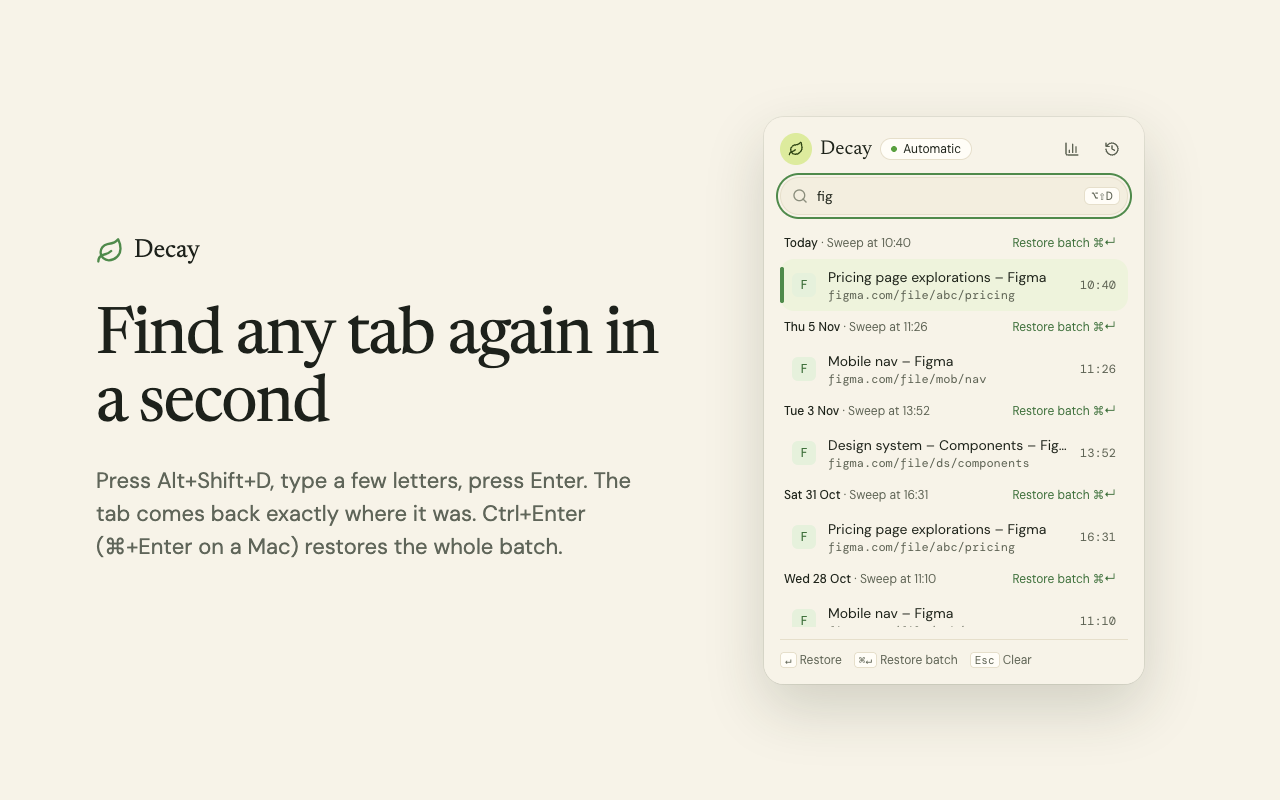
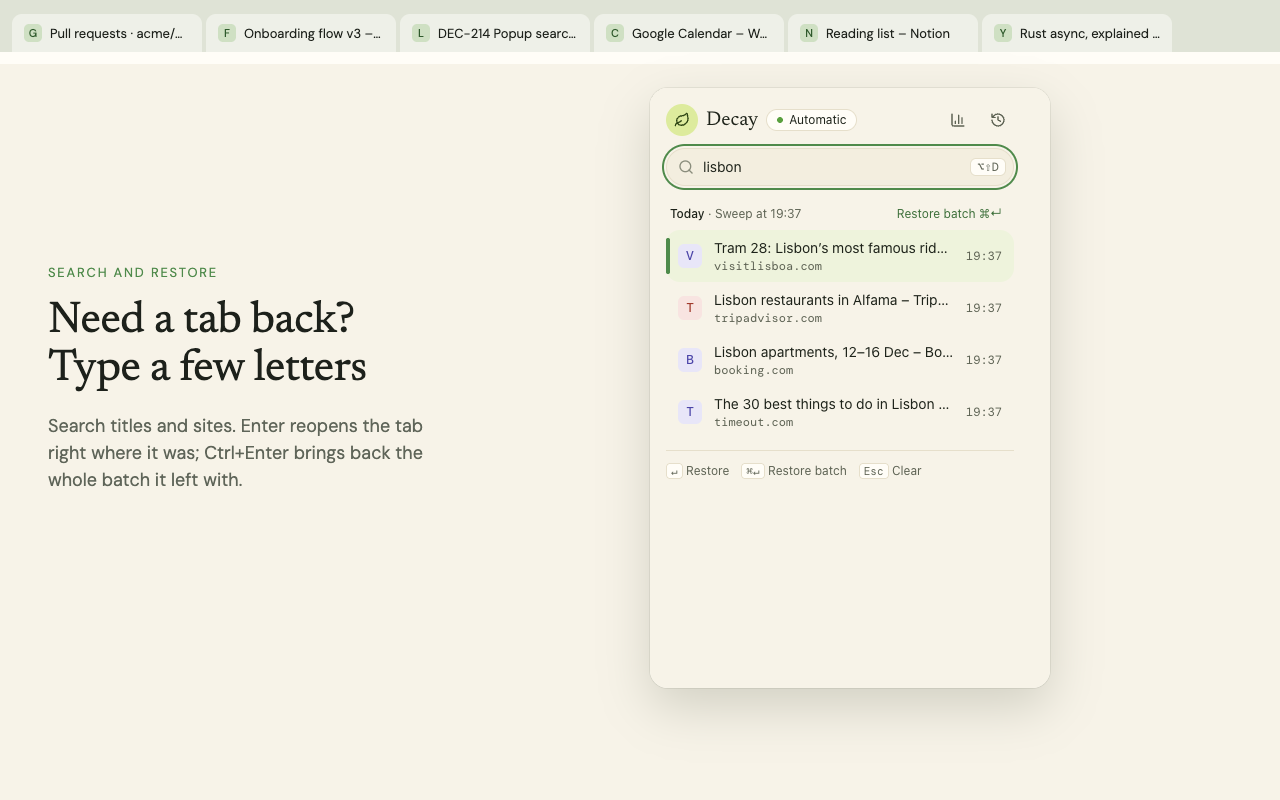
Chrome Web Store: public listing, fresh screenshots and promo tiles
Store Listing.md now covers the public listing: description, category,
URLs, privacy practices (single purpose, a justification for every
permission in the 0.1.0 manifest, remote code, data use), distribution,
reviewer instructions, what to do with the item ID, and review tips.

New 1280x800 screenshots of the current extension (search, popup, sweeps,
shadow review, insights) with sample data, a 440x280 small tile, a
1400x560 marquee and the 128 px icon, made by Docs/Store/demo/
screenshots.mjs and promo.mjs so they can be redone after UI changes.

diff --git a/Docs/Store/Store Listing.md b/Docs/Store/Store Listing.md
@@ -1,8 +1,29 @@
-# Chrome Web Store listing — Decay (beta, unlisted)
+# Chrome Web Store listing — Decay (public)
 
-Everything to paste into the Chrome Web Store Developer Dashboard for P0.9. Visibility: **Unlisted** (only people with the link can install).
+Everything to enter in the Chrome Web Store Developer Dashboard (https://chrome.google.com/webstore/devconsole), tab by tab, for the **public** listing. Updated 25 Nov 2026 for extension 0.1.0 as built from the current code (the desktop app link, the Insights page, translated strings). Edge Add-ons takes the same package and text (its own dashboard: https://partner.microsoft.com/dashboard/microsoftedge).
 
-Package: `pnpm --filter @decay/extension zip` → `apps/extension/.output/decayextension-<version>-chrome.zip` (538 KB for 0.1.0; no source maps, no remote code).
+## What to upload
+
+| What | File | Notes |
+| --- | --- | --- |
+| Package | `apps/extension/.output/decayextension-0.1.0-chrome.zip` | `pnpm --filter @decay/extension zip`. 569 KB, no source maps, no remote code. If a 0.1.0 was ever uploaded to this item before (the unlisted beta), bump `version` in `apps/extension/package.json` first: the store refuses a version it has seen. |
+| Store icon | `Docs/Store/assets/store-icon-128.png` | 128×128 |
+| Screenshots, in this order | `Docs/Store/assets/screenshot-1-search.png` … `screenshot-5-insights.png` | 1280×800, the real extension with sample data (`Docs/Store/demo/screenshots.mjs`) |
+| Small promo tile (required) | `Docs/Store/assets/promo-small-440x280.png` | 440×280 |
+| Marquee promo tile (optional) | `Docs/Store/assets/promo-marquee-1400x560.png` | 1400×560; only used if the store features Decay |
+| Promo video (optional) | — | `assets/decay-demo.mp4` shows the 7 Nov UI; leave the field empty, or re-record (`Docs/Store/demo/README.md`) and upload to YouTube first |
+
+Regenerate the images after UI changes:
+
+```sh
+pnpm --filter @decay/extension build
+rm -rf /tmp/decay-shots-ext && cp -R apps/extension/.output/chrome-mv3 /tmp/decay-shots-ext
+cp Docs/Store/demo/stage.* /tmp/decay-shots-ext/
+node Docs/Store/demo/screenshots.mjs /tmp/decay-shots-ext Docs/Store/assets
+node Docs/Store/demo/promo.mjs /tmp/decay-shots-ext Docs/Store/assets
+```
+
+(Playwright: `Docs/Store/demo/README.md`. The scripts need nothing else; the sample pages are served locally.)
 
 ---
 
@@ -10,15 +31,11 @@ Package: `pnpm --filter @decay/extension zip` → `apps/extension/.output/decaye
 
 **Name** (from the manifest): `Decay`
 
-**Summary** (manifest `description`, ≤ 132 chars):
+**Summary** (from the manifest, ≤ 132 characters):
 
 > Your tabs, gently put away. Archives stale tabs; search and restore anything.
 
-**Category:** Productivity → Tools (or "Workflow & Planning").
-
-**Language:** English.
-
-**Detailed description:**
+**Description:**
 
 ```
 Decay retires the tabs you've stopped using, and brings any of them back in a second.
@@ -28,38 +45,41 @@ People keep 30, 50, 100 tabs open because closing one feels like losing it. Deca
 HOW IT WORKS
 • Ages tabs by active browsing time, not the clock. A weekend away doesn't make Monday's tabs "old".
 • Starts in shadow mode: for the first 7 active days nothing is closed. Decay shows you what it would have archived, so you can check its judgement first.
-• Then, in automatic mode, stale tabs are archived in small, quiet sweeps, with an Undo button after each one.
+• Then, in automatic mode, stale tabs are archived in small, quiet sweeps, with Undo after each one.
 • Never touches pinned tabs, tabs playing audio, or sites you've marked "Never archive".
 • With your permission, checks a page for unsaved typing, an upload in progress or a "leave site?" prompt before archiving it. Pages it can't check get twice as long.
 
 SEARCH AND RESTORE
 • Alt+Shift+D opens the search popup. Type a few letters of a title or site, press Enter, and the tab is back.
-• Ctrl/Cmd+Enter restores the whole batch a tab was archived with, in its original order.
-• The Sweeps page lists your recent sweeps (the last 20 can be undone), with Restore selected.
+• Ctrl+Enter (⌘+Enter on a Mac) restores the whole batch a tab was archived with, in its original order and tab groups.
+• The Sweeps page lists every sweep; the last 20 can be undone.
+
+INSIGHTS
+• See your open tabs fall over time, how often you needed an archived tab back, and how fast search found it. Counted on your computer.
+
+WORKS WITH THE DECAY DESKTOP APP (OPTIONAL)
+The free Decay app for macOS and Windows does the same for your app windows, across Chrome, Edge, Brave, Arc and Firefox. Install it and click "Connect" in the popup: the extension and the app talk directly on your computer, never over the network. The extension works fully on its own without it. https://decay.aryangarg.com
 
 PRIVATE BY DESIGN
-• Everything stays on your device. No account, no server, no analytics, no network requests.
-• The Insights page shows how your tab count and "regret rate" (tabs you reopened within a day) change over time.
-• Beta testers can save an anonymised metrics file (counts only, no addresses, titles or sites) and send it themselves. You see the whole file before it's saved.
+• Everything stays on your computer. No account, no server, no analytics, no ads.
+• The extension makes no network requests of its own.
+• Open source: https://github.com/code08-ind/decay
 
-This is a beta. Decay is in a 3–4 week test with a small group of testers. Feedback: gargaryan82000@gmail.com
-Privacy policy: https://www.aryangarg.com/decay/privacy-policy
+Questions or bugs: support.decay@aryangarg.com
 ```
 
-**Graphic assets** (`Docs/Store/assets/`):
+**Category:** Productivity → **Workflow & Planning** (or Tools).
 
-| Asset | Size | File |
-| --- | --- | --- |
-| Store icon | 128×128 PNG | `apps/extension/public/icon/128.png` |
-| Screenshots (1–5, in this order) | 1280×800 PNG | `screenshot-1-search.png`, `screenshot-2-popup.png`, `screenshot-3-sweeps.png`, `screenshot-4-insights.png`, `screenshot-5-review.png` (real UI with sample data) |
-| Small promo tile | 440×280 PNG | `promo-small-440x280.png` |
-| Demo video (48 s) | MP4, 1280×712 | `decay-demo.mp4`. Upload to YouTube as **Unlisted** and paste the link into the listing's "Video" field and the reviewer instructions below |
+**Language:** English.
 
 **Additional fields:**
-- Official URL: none (or https://www.aryangarg.com once a Decay page exists)
-- Homepage URL: https://www.aryangarg.com/decay/privacy-policy (until a landing page exists)
-- Support URL / email: gargaryan82000@gmail.com
-- Mature content: No
+
+| Field | Value |
+| --- | --- |
+| Official URL | `https://decay.aryangarg.com` if the domain shows in the list (it must be verified in Google Search Console with the same Google account; `aryangarg.com` already has a Search Console TXT record). Otherwise "None". |
+| Homepage URL | `https://decay.aryangarg.com` |
+| Support URL | `https://decay.aryangarg.com/docs/browsers` |
+| Mature content | No |
 
 ---
 
@@ -67,50 +87,81 @@ Privacy policy: https://www.aryangarg.com/decay/privacy-policy
 
 **Single purpose description:**
 
-> Decay archives browser tabs that have gone unused for a while, and lets the user search and restore them. All of its features (aging, archiving, the unsaved-work check, search, restore, undo, and on-device usage statistics) serve that one purpose.
+> Decay archives browser tabs that have gone unused for a while, and lets the user search and restore them. All of its features (aging tabs by active browsing time, archiving, the optional unsaved-work check, search, restore, undo, on-device statistics, and the optional link to the Decay desktop app on the same computer) serve that one purpose.
 
-**Permission justifications:**
+**Permission justifications** (one box each):
 
 | Permission | Justification |
 | --- | --- |
 | `tabs` | Decay reads each open tab's URL, title and activity to measure how long it has gone unused, closes stale tabs after saving them to the on-device archive, and reopens them on restore. |
-| `tabGroups` | Archived tabs remember their tab group (name and colour) so a restore puts them back in the same group. |
-| `storage` | Stores the tab archive, the user's rules and settings, and daily usage counts locally (IndexedDB / chrome.storage). Nothing is synced or sent anywhere. |
+| `tabGroups` | Archived tabs remember their tab group (name and colour), so a restore puts them back in the same group. |
+| `storage` | Stores the tab archive, the user's rules and settings, and daily usage counts locally (IndexedDB and chrome.storage). Nothing is synced or sent anywhere. |
 | `alarms` | Runs the aging clock every 30 seconds in the MV3 service worker, which can't keep timers alive on its own. |
 | `idle` | Counts only time when the user is actively at the computer, so tabs don't "age" overnight or while the user is away. |
 | `scripting` | Only with the optional site access below: registers two small content scripts (watchers for typing, "leave site?" prompts and uploads in progress) and, just before archiving a stale tab, runs a one-off check in that tab that returns yes / no / unknown. |
 | `favicon` | Shows site icons in the popup and pages from Chrome's local favicon cache, so Decay never downloads icons. |
 | `notifications` | Shows "Archived N tabs" with Undo / View buttons after a sweep, and an "Always keep <site> open?" suggestion when a tab is restored soon after being archived. |
-| `nativeMessaging` (**optional**, from the version with the desktop app link) | Requested only when the user clicks "Connect" to link the Decay desktop app. It lets the extension exchange tab information and its archive with that app on the same computer, through the native messaging host the app installs. Nothing is sent over the network. |
-| Host permissions (`http://*/*`, `https://*/*`, **optional**) | Requested at runtime only when the user clicks "Allow checks", and can be limited to specific sites. Used solely to check pages for unsaved form input, `beforeunload` handlers or a file upload in progress before archiving. Typed text and upload contents are never read into storage; only a yes / no / unknown verdict with the tab's address and check time is kept in session storage, until the tab closes or the browser quits (re-checked after 10–30 minutes). |
+| `nativeMessaging` (optional) | Requested only when the user clicks "Connect" to link the Decay desktop app installed on the same computer. The extension then exchanges tab information and its archive with that app through the native messaging host the app installs. Nothing is sent over the network. |
+| Host permissions (`http://*/*`, `https://*/*`, optional) | Requested at runtime only when the user clicks "Allow checks", and can be limited to specific sites. Used solely to check pages for unsaved form input, a "leave site?" handler or a file upload in progress before archiving. Typed text and upload contents are never read into storage; only a yes / no / unknown answer with the tab's address and check time is kept in session storage, until the tab closes or the browser quits (re-checked after 10–30 minutes). |
 
-**Remote code:** No, I am not using remote code. (All JavaScript ships in the package; no `eval`, no remotely loaded scripts.)
+**Are you using remote code?** No, I am not using remote code. (All JavaScript ships in the package; no `eval`, no remotely hosted scripts, no WebAssembly from the network.)
 
-**Data usage** — what to tick:
-- Tick **Web history** (tab URLs and titles) and **User activity** (when tabs were used). Decay only keeps this on the device, but the conservative answer is to declare what it handles; the privacy policy explains that nothing leaves the device. Consider also ticking **Website content** (page titles and whether a form holds typing).
-- Certify all three:
-  - ☑ I do not sell or transfer user data to third parties, outside of the approved use cases
-  - ☑ I do not use or transfer user data for purposes that are unrelated to my item's single purpose
-  - ☑ I do not use or transfer user data to determine creditworthiness or for lending purposes
+**Data usage — what user data do you collect or use?**
 
-**Privacy policy URL:** https://www.aryangarg.com/decay/privacy-policy
+Decay keeps tab URLs, titles and usage times on the user's device and never transmits them to a server. The conservative answer is to declare what it handles, and the privacy policy explains that it stays on the device. Tick:
+
+- ☑ **Web history** (URLs and titles of tabs)
+- ☑ **User activity** (when tabs were used)
+- ☐ everything else (personally identifiable information, health, financial, authentication, personal communications, location, website content: Decay never reads page content)
+
+Then certify all three:
+
+- ☑ I do not sell or transfer user data to third parties, outside of the approved use cases
+- ☑ I do not use or transfer user data for purposes that are unrelated to my item's single purpose
+- ☑ I do not use or transfer user data to determine creditworthiness or for lending purposes
+
+**Privacy policy URL:** `https://www.aryangarg.com/decay/privacy-policy`
 
 ---
 
 ## Distribution tab
 
-- Visibility: **Unlisted**
-- Regions: all
-- Pricing: free
+- Payments: **Free of charge** (the extension has no paid features; the optional desktop app's Pro tier is sold on the website, not in the extension)
+- Visibility: **Public**
+- Distribution: **All regions**
 
-## Test instructions (for the reviewer)
+---
+
+## Test instructions tab (for the reviewer)
+
+**Username / password:** none (leave empty).
+
+**Additional instructions:**
 
 ```
-No account or login is needed.
-1. Install and open a few tabs. Decay starts in shadow mode, which closes nothing.
-2. Press Alt+Shift+D (or click the toolbar icon) to open the popup.
-3. To skip the 7-day shadow period: in the popup click "Review what Decay would do" → "Turn on automatic mode early" → "Turn on".
-4. Open the Sweeps page (the clock icon labelled "Sweep history" in the popup header). "Sweep now" archives tabs that are already stale. Note: tabs become stale only after 60 hours of active browsing without being used (120 hours for pages Decay can't check), so on a fresh install Sweep now archives nothing. This 48-second video shows the full flow in the real extension (Sweep now archives three tabs, search + Enter restores one, Ctrl+Enter restores the rest): <YouTube link>
-5. Search for an archived tab in the popup and press Enter to restore it.
-Optional site access ("Allow checks") is only used to check pages for unsaved typing, uploads and "leave site?" prompts before archiving.
+No account or login is needed. The extension works on its own; the "Connect" button in the popup is for an optional desktop app and can be ignored.
+
+1. Install it and open a few tabs. Decay starts in shadow mode, which closes nothing.
+2. Click the toolbar icon (or press Alt+Shift+D) to open the popup.
+3. To skip the 7-day shadow period: open "Shadow review" (from the popup), click "Turn on automatic mode early", then confirm.
+4. Tabs become stale only after 60 hours of active browsing without being used (120 hours for pages Decay isn't allowed to check), so on a fresh install "Sweep now" on the Sweeps page has nothing to archive yet. The screenshots show the flow with aged tabs: a sweep archives the stale tabs, the popup search finds an archived tab, Enter restores it, Undo reopens the whole sweep.
+5. Optional site access ("Allow checks") is used only to check pages for unsaved typing, uploads and "leave site?" prompts before archiving; typed text is never stored.
+
+No remote code, no network requests of its own. Privacy policy: https://www.aryangarg.com/decay/privacy-policy. Source: https://github.com/code08-ind/decay (apps/extension).
 ```
+
+---
+
+## After the first upload
+
+1. The dashboard shows the item's **ID** (32 letters) as soon as the package is uploaded, before review. Send it to Claude / put it in `crates/decay-host/src/config.rs` → `BUILTIN_EXTENSION_IDS`, so the released desktop app accepts the store build, and release the app (v0.1.1). Do the same for the Edge Add-ons ID if Edge is listed.
+2. After approval: replace the store search link in `apps/desktop/src-tauri/src/onboarding.rs` (`STORE_URL`) and the website's docs with the listing URL (`https://chromewebstore.google.com/detail/<id>`).
+3. Each new version: bump `apps/extension/package.json`, rebuild the zip, **Package → Upload new package**, and submit for review.
+
+## Review tips (avoid the common rejections)
+
+- Keep the description factual: no keyword lists, no other brands' names beyond the browsers it supports, no ratings or "best" claims.
+- Every permission must be used by this exact package: the table above matches the manifest of 0.1.0. If a permission is added or removed later, update its justification in the same submission.
+- Screenshots must show the real extension: they do (sample tab data, real UI). "Sample data shown" is on the Insights image.
+- The privacy policy must cover what the extension does with tab data: it does (the extension section, plus native messaging).
+- Optional host permissions (`http://*/*`, `https://*/*`) usually trigger a longer, manual review (a few days). That's normal.

diff --git a/Docs/Store/demo/README.md b/Docs/Store/demo/README.md
@@ -1,4 +1,8 @@
-# Demo video (store review)
+# Store media
+
+Screenshots and promo tiles: `screenshots.mjs` and `promo.mjs` (commands in `../Store Listing.md`). Playwright: `npm i --no-save playwright` doesn't work inside the pnpm workspace; install it in a folder outside the repo and symlink its `node_modules` here (git-ignored).
+
+## Demo video (store review)
 
 `../assets/decay-demo.mp4` was recorded from the real extension in headless Chromium. `stage.html` / `stage.js` form a recording-only extension page, **never shipped**: a live tab strip read from `chrome.tabs`, a caption, and a Decay page (popup or Sweeps) in a frame.
 
